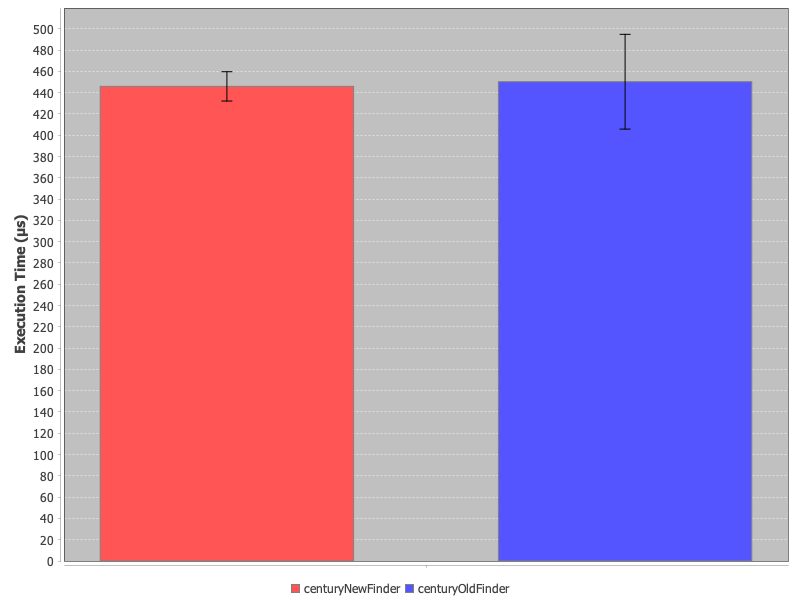
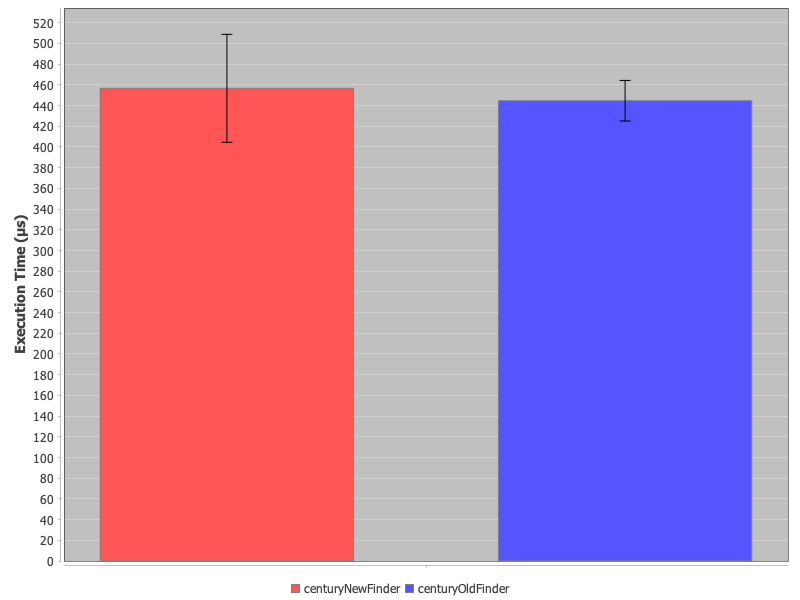
Slight improvement

Changed region(s): [[0.0312, 0.03, 0.0938, 0.87], [0.625, 0.12, 0.9375, 0.18], [0.125, 0.06, 0.4375, 0.15]]

diff --git a/replacer-backend/replacer-finder-benchmark/src/main/java/es/bvalero/replacer/finder/benchmark/century/CenturyNewFinder.java b/replacer-backend/replacer-finder-benchmark/src/main/java/es/bvalero/replacer/finder/benchmark/century/CenturyNewFinder.java
@@ -266,25 +266,24 @@ class CenturyNewFinder implements BenchmarkFinder {
     private Replacement convertCenturySingular(MatchResult match, FinderPage page) {
         final String text = page.getContent();
 
-        String centuryText = match.group();
+        String centuryText;
         String centuryWord = match.group(1);
         final boolean isUppercase = FinderUtils.startsWithUpperCase(centuryWord);
         final String centuryNumber = FinderUtils.toUpperCase(match.group(2));
         final String eraText = match.group(3);
         final String eraLetter = StringUtils.isEmpty(eraText) ? EMPTY : String.valueOf(eraText.charAt(0));
-        final boolean isLinked = centuryText.startsWith(START_LINK);
 
         // Add extension and its suggestion
         final String extensionText = match.group(4);
         final String extension;
         if (StringUtils.isEmpty(extensionText)) {
+            centuryText = match.group();
             extension = EMPTY;
         } else {
             final int extensionStart = match.start(4);
             final int extensionEnd = match.end(4);
-            final String extensionPrefix = text.substring(match.end(), extensionStart);
             centuryText = text.substring(match.start(), extensionEnd);
-            extension = extensionPrefix + fixSimpleCentury(extensionText);
+            extension = text.substring(match.end(), extensionStart) + fixSimpleCentury(extensionText);
         }
 
         // Manage abbreviated century word
@@ -310,6 +309,7 @@ class CenturyNewFinder implements BenchmarkFinder {
 
         // Not linked centuries are recommended
         // Offer always the lowercase alternative
+        final boolean isLinked = centuryText.startsWith(START_LINK);
         if (isUppercase) {
             suggestions.add(Suggestion.of(templateUpperNoLink, "siglo en versalitas; con mayúscula; sin enlazar"));
             if (isLinked) {

diff --git a/replacer-backend/replacer-finder-benchmark/src/main/java/es/bvalero/replacer/finder/benchmark/century/CenturyOldFinder.java b/replacer-backend/replacer-finder-benchmark/src/main/java/es/bvalero/replacer/finder/benchmark/century/CenturyOldFinder.java
@@ -266,25 +266,24 @@ class CenturyOldFinder implements BenchmarkFinder {
     private Replacement convertCenturySingular(MatchResult match, FinderPage page) {
         final String text = page.getContent();
 
-        String centuryText = match.group();
+        String centuryText;
         String centuryWord = match.group(1);
         final boolean isUppercase = FinderUtils.startsWithUpperCase(centuryWord);
         final String centuryNumber = FinderUtils.toUpperCase(match.group(2));
         final String eraText = match.group(3);
         final String eraLetter = StringUtils.isEmpty(eraText) ? EMPTY : String.valueOf(eraText.charAt(0));
-        final boolean isLinked = centuryText.startsWith(START_LINK);
 
         // Add extension and its suggestion
         final String extensionText = match.group(4);
         final String extension;
         if (StringUtils.isEmpty(extensionText)) {
+            centuryText = match.group();
             extension = EMPTY;
         } else {
             final int extensionStart = match.start(4);
             final int extensionEnd = match.end(4);
-            final String extensionPrefix = text.substring(match.end(), extensionStart);
             centuryText = text.substring(match.start(), extensionEnd);
-            extension = extensionPrefix + fixSimpleCentury(extensionText);
+            extension = text.substring(match.end(), extensionStart) + fixSimpleCentury(extensionText);
         }
 
         // Manage abbreviated century word
@@ -310,6 +309,7 @@ class CenturyOldFinder implements BenchmarkFinder {
 
         // Not linked centuries are recommended
         // Offer always the lowercase alternative
+        final boolean isLinked = centuryText.startsWith(START_LINK);
         if (isUppercase) {
             suggestions.add(Suggestion.of(templateUpperNoLink, "siglo en versalitas; con mayúscula; sin enlazar"));
             if (isLinked) {

diff --git a/replacer-backend/replacer-finder/src/main/java/es/bvalero/replacer/finder/replacement/finders/CenturyFinder.java b/replacer-backend/replacer-finder/src/main/java/es/bvalero/replacer/finder/replacement/finders/CenturyFinder.java
@@ -266,25 +266,24 @@ class CenturyFinder implements ReplacementFinder {
     private Replacement convertCenturySingular(MatchResult match, FinderPage page) {
         final String text = page.getContent();
 
-        String centuryText = match.group();
+        String centuryText;
         String centuryWord = match.group(1);
         final boolean isUppercase = FinderUtils.startsWithUpperCase(centuryWord);
         final String centuryNumber = FinderUtils.toUpperCase(match.group(2));
         final String eraText = match.group(3);
         final String eraLetter = StringUtils.isEmpty(eraText) ? EMPTY : String.valueOf(eraText.charAt(0));
-        final boolean isLinked = centuryText.startsWith(START_LINK);
 
         // Add extension and its suggestion
         final String extensionText = match.group(4);
         final String extension;
         if (StringUtils.isEmpty(extensionText)) {
+            centuryText = match.group();
             extension = EMPTY;
         } else {
             final int extensionStart = match.start(4);
             final int extensionEnd = match.end(4);
-            final String extensionPrefix = text.substring(match.end(), extensionStart);
             centuryText = text.substring(match.start(), extensionEnd);
-            extension = extensionPrefix + fixSimpleCentury(extensionText);
+            extension = text.substring(match.end(), extensionStart) + fixSimpleCentury(extensionText);
         }
 
         // Manage abbreviated century word
@@ -310,6 +309,7 @@ class CenturyFinder implements ReplacementFinder {
 
         // Not linked centuries are recommended
         // Offer always the lowercase alternative
+        final boolean isLinked = centuryText.startsWith(START_LINK);
         if (isUppercase) {
             suggestions.add(Suggestion.of(templateUpperNoLink, "siglo en versalitas; con mayúscula; sin enlazar"));
             if (isLinked) {
